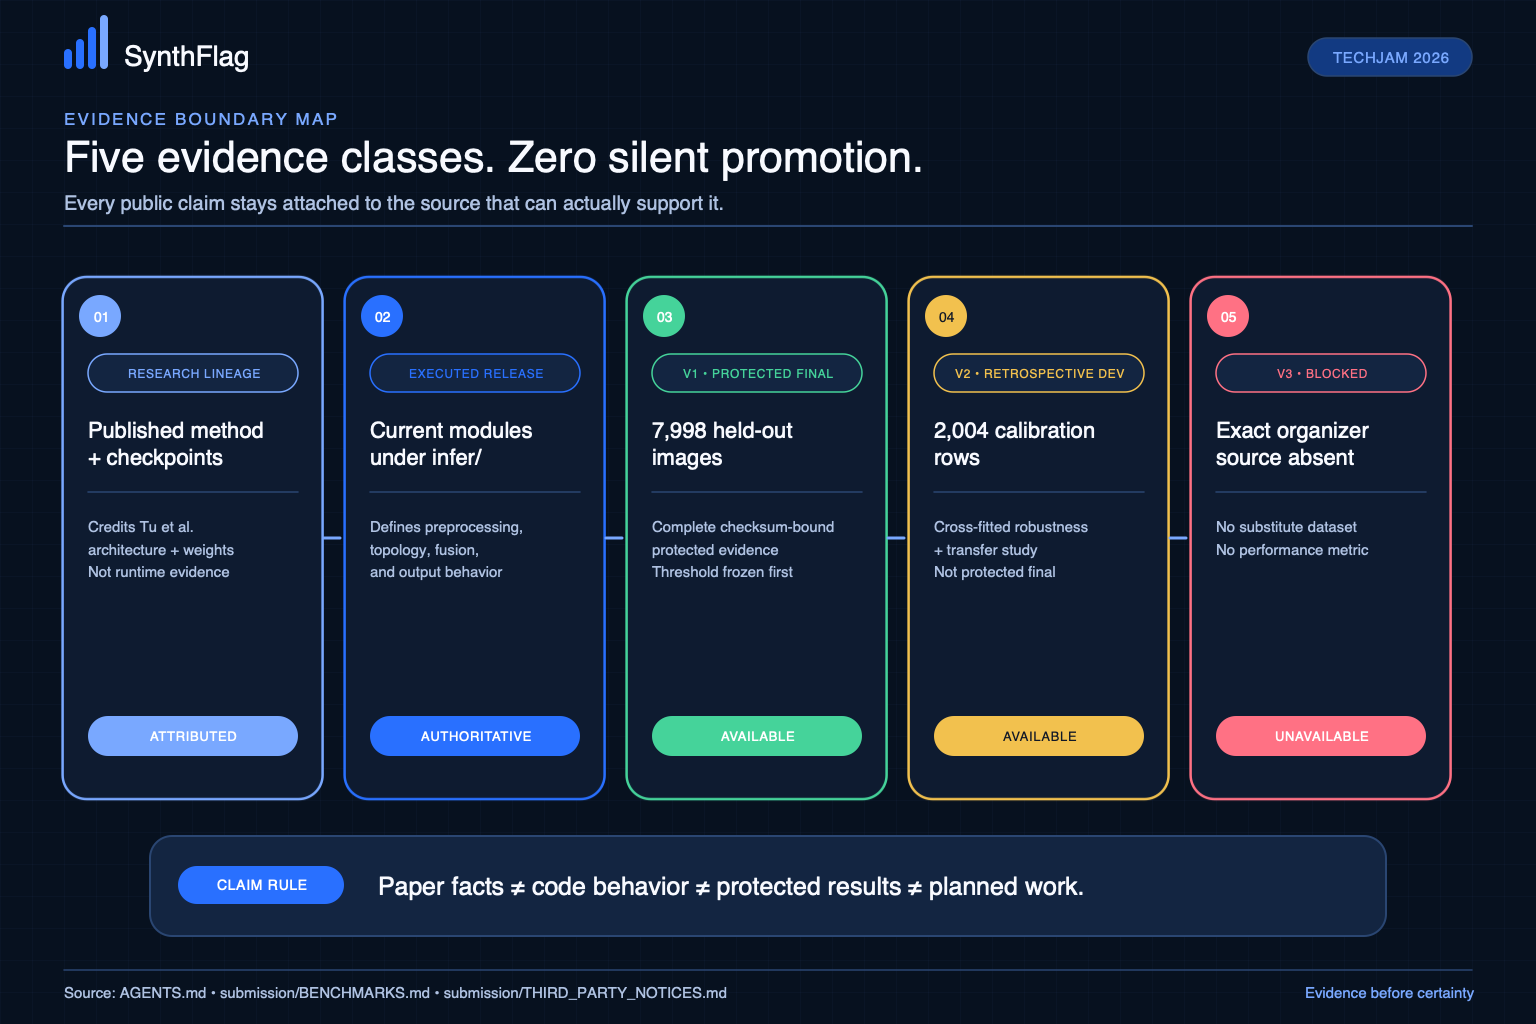
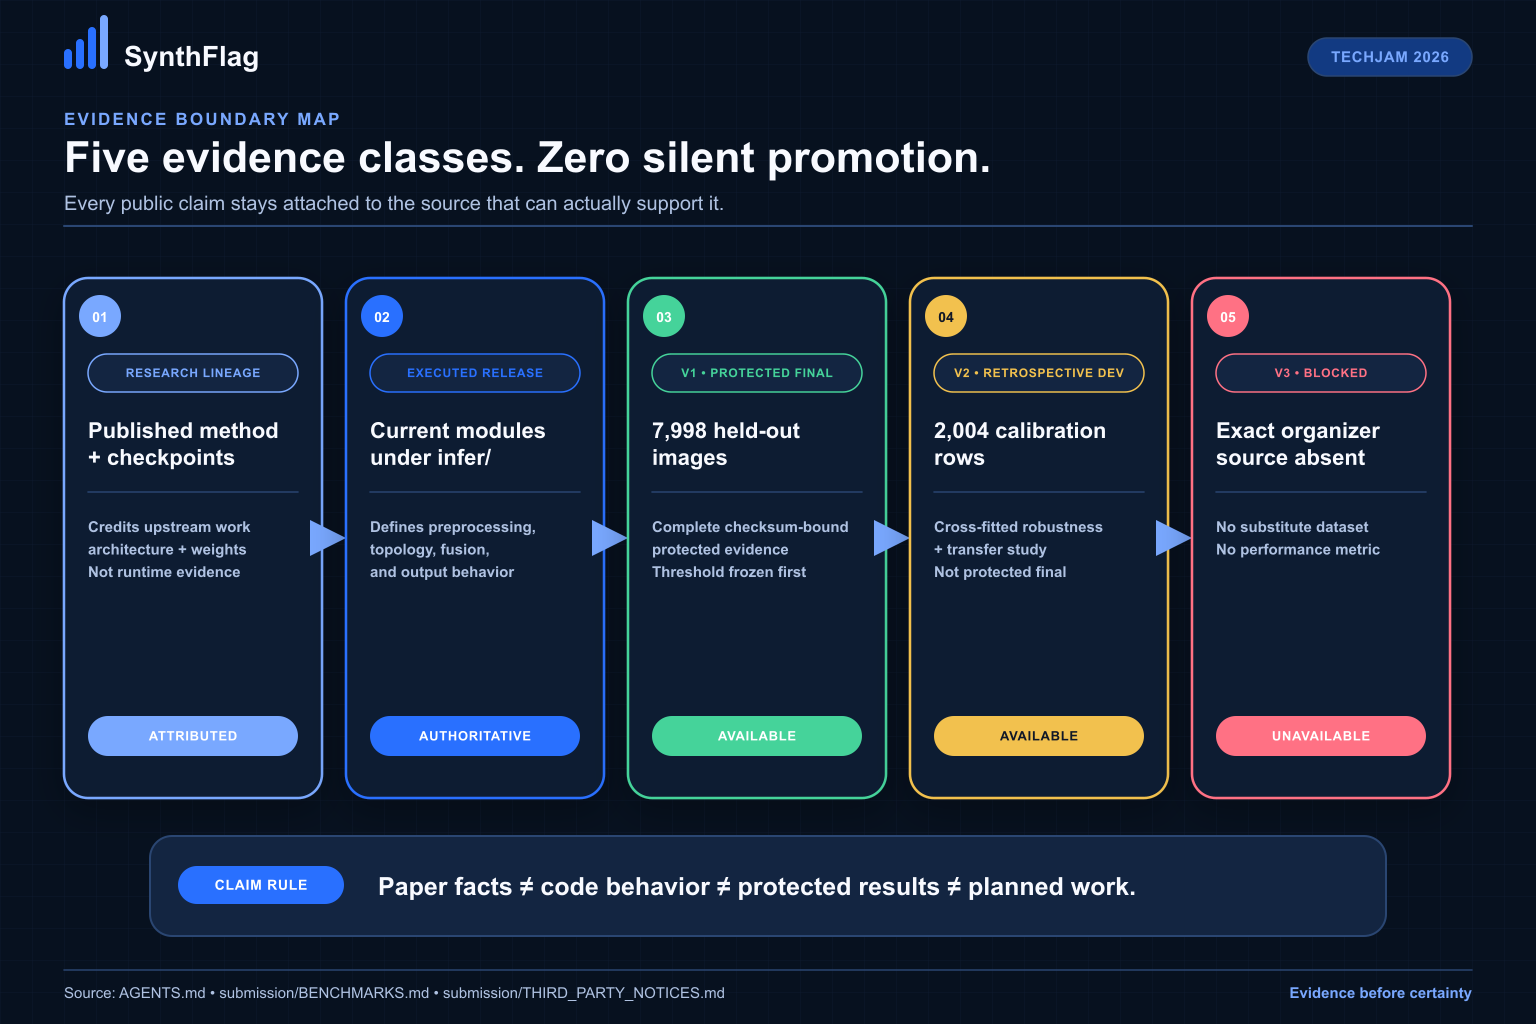
docs: use Expert 4 labels in public copy

diff --git a/landing-page/app/documentation/page.tsx b/landing-page/app/documentation/page.tsx
@@ -175,7 +175,7 @@ export default function Documentation() {
             <SectionHeading kicker="Start here">In one minute</SectionHeading>
             <div className="docs-lead-grid">
               <p className="docs-lead">
-                SynthFlag uses a frozen upstream Tu et al. Expert 4 SigLIP
+                SynthFlag uses a frozen upstream Expert 4 SigLIP
                 encoder and teacher head. Three project-trained lightweight
                 heads correct that teacher margin. Native images at most 64 px
                 use a specialist; larger images use a fixed two-head stack.
@@ -266,7 +266,7 @@ export default function Documentation() {
                 </p>
                 <ul>
                   <li>
-                    <strong>Teacher:</strong> Tu et al. Expert 4, SigLIP So400M
+                    <strong>Teacher:</strong> Expert 4, SigLIP So400M
                     Patch14-384.
                   </li>
                   <li>
@@ -496,7 +496,7 @@ export default function Documentation() {
                 target="_blank"
               >
                 <span>Upstream method</span>
-                <strong>Tu et al. technical report</strong>
+                <strong>Expert 4 technical report</strong>
                 <ArrowUpRight aria-hidden="true" />
               </a>
               <a

diff --git a/landing-page/app/documentation/architecture/atlas.tsx b/landing-page/app/documentation/architecture/atlas.tsx
@@ -691,8 +691,9 @@ const sections: AtlasSection[] = [
         </p>
         <p>
           The DINOv3-7B backbone anatomy comes from Meta&apos;s official model
-          card and reference factory, not from SynthFlag code. Tu et al.
-          evaluated the earlier DINO family during backbone selection, then
+          card and reference factory, not from SynthFlag code. The Expert 4
+          detector report evaluated the earlier DINO family during backbone
+          selection, then
           chose CLIP and SigLIP for its final four-expert system.
         </p>
       </>
@@ -775,7 +776,8 @@ const sections: AtlasSection[] = [
       <>
         <p>
           SynthFlag is the public product name. The underlying detector lineage
-          remains attributed to Tu et al., while the NTIRE report records the
+          remains attributed in the third-party notice, while the NTIRE report
+          records the
           challenge submission separately. Those evidence classes must remain
           distinct.
         </p>

diff --git a/landing-page/app/page.tsx b/landing-page/app/page.tsx
@@ -746,7 +746,7 @@ export default function Home() {
               </h2>
             </div>
             <p className="max-w-2xl text-lg leading-8 text-[#4b5563] lg:justify-self-end">
-              A frozen Tu et al. Expert 4 supplies a 1,152-dimensional feature
+              A frozen Expert 4 supplies a 1,152-dimensional feature
               and teacher margin. Three compact residual heads correct that
               margin through a deterministic native-size route before sigmoid
               produces a signal in the range 0–1.
@@ -1285,7 +1285,7 @@ export default function Home() {
             </span>
           </a>
           <p>
-            Built on the detector architecture and research of Tu et al.
+            Built on the released Expert 4 detector architecture and
             lineage.
           </p>
           <div className="flex items-center gap-5">

diff --git a/landing-page/app/journey/page.tsx b/landing-page/app/journey/page.tsx
@@ -372,7 +372,7 @@ export default function JourneyPage() {
                 </article>
               </div>
               <p className="journey-credit-note">
-                Tu et al. supplied Expert 4 and its detector training. SynthFlag
+                Expert 4 and its detector training are upstream work. SynthFlag
                 does not claim to originate or train that checkpoint. The
                 residual heads and routing are project artifacts with a
                 collaborator rights attestation accepted by the project owner.

diff --git a/landing-page/app/layout.tsx b/landing-page/app/layout.tsx
@@ -17,7 +17,7 @@ const poppins = Poppins({
 export const metadata: Metadata = {
   title: 'SynthFlag — From pixels to evidence',
   description:
-    'A routed residual research detector built on a frozen Tu et al. Expert 4 representation.',
+    'A routed residual research detector built on a frozen Expert 4 representation.',
   metadataBase: new URL('https://synthflag.chaipinzheng353496.chatgpt.site'),
   icons: {
     icon: '/favicon.svg',

diff --git a/infer/cli.py b/infer/cli.py
@@ -29,7 +29,7 @@ def build_parser() -> argparse.ArgumentParser:
         prog="synthflag-infer",
         description=(
             "Score an image directory with SynthFlag's selected TEST1 graph: "
-            "Tu et al. Expert 4 plus three routed residual heads."
+            "Expert 4 plus three routed residual heads."
         ),
     )
     parser.add_argument("--images-dir", required=True, type=Path)

diff --git a/scripts/build_devpost_architecture_assets.py b/scripts/build_devpost_architecture_assets.py
@@ -665,7 +665,7 @@ def build_evidence_boundary_map(theme: Theme) -> str:
             "01",
             "RESEARCH LINEAGE",
             ["Published method", "+ checkpoints"],
-            ["Credits Tu et al.", "architecture + weights", "Not runtime evidence"],
+            ["Credits upstream work", "architecture + weights", "Not runtime evidence"],
             theme.sky,
         ),
         (

diff --git a/infer/architecture.py b/infer/architecture.py
@@ -26,7 +26,7 @@ LARGE_IMAGE_MARGIN_BOUNDARY = -1.557959395647049
 
 
 def siglip_vision_config() -> SiglipVisionConfig:
-    """Describe the frozen Tu et al. Expert 4 SigLIP encoder."""
+    """Describe the frozen Expert 4 SigLIP encoder."""
 
     return SiglipVisionConfig(
         hidden_size=FEATURE_WIDTH,

diff --git a/submission/RELEASE_AUDIT.md b/submission/RELEASE_AUDIT.md
@@ -25,7 +25,7 @@ This is a technical release-readiness verdict, not a legal opinion.
 | Source attribution and hygiene | `THIRD_PARTY_NOTICES.md` records upstream attribution; the embedded digest inventory and source check reject prohibited upstream files except the canonical license. | **Pass** |
 | Current implementation boundary | `training_eval/` contains the collaborator-authoritative residual-head model, training, deterministic augmentation, evaluation, configs, tests, and complete TEST1 record. `infer/` imports that head implementation and adapts it to the product encoder/service/CLI contract. | **Pass** |
 | Dependency attribution | Pinned runtime dependencies are listed with declared licenses and primary license URLs in `THIRD_PARTY_NOTICES.md`. | **Pass** |
-| Base-model attribution | SigLIP identifiers, model card, license/limitations, and Tu et al. Expert 4 lineage are documented. | **Pass** |
+| Base-model attribution | SigLIP identifiers, model card, license/limitations, and Expert 4 lineage are documented. | **Pass** |
 | Checkpoint and head permission | Expert 4 redistribution is unproven. The final three-head bundle remains a team artifact under the collaborator attestation accepted by the project owner. All checkpoint bytes are excluded from Git and distributed from the hash-pinned team Google Drive release. | **Pass by binary exclusion; head attestation accepted** |
 | Dataset attribution | CIFAKE, SID-Set, WildFake, COCO, and organizer DALL-E roles and rights evidence are documented. | **Pass** |
 | Dataset redistribution | No dataset pixels, captions, masks, prompts, or private row-level manifests are tracked. Ambiguous sources are non-redistributable by policy. | **Pass by exclusion** |
@@ -35,7 +35,7 @@ This is a technical release-readiness verdict, not a legal opinion.
 | Day 3 interview evidence | The team supplied a call image and automated transcript. The public copy ends with the researcher interview, excludes later internal chatter, and is labeled as research input rather than performance evidence or endorsement. Publication/likeness permission for every depicted or named participant was not independently verified. | **Conditional: maintainers must confirm consent** |
 | Public artifact integrity | All entries in `ARTIFACTS.sha256` and `training_eval/ARTIFACTS.sha256` were verified. Drive file IDs, bundle size and hash, and all four checkpoint identities are recorded without shipping checkpoint bytes in Git. | **Pass** |
 | Public visual provenance | The project wordmark, architecture diagram, and Devpost thumbnail remain. The thumbnail derives only from project-created SynthFlag brand assets; the unused challenge-site screenshot was removed because its redistribution rights were undocumented. | **Pass** |
-| External research reports | The Tu et al. detector report and NTIRE challenge report are cited through their primary publication pages; no copies are included in this repository. | **Pass** |
+| External research reports | The Expert 4 detector report and NTIRE challenge report are cited through their primary publication pages; no copies are included in this repository. | **Pass** |
 
 ## Release contents
 

diff --git a/submission/THIRD_PARTY_NOTICES.md b/submission/THIRD_PARTY_NOTICES.md
@@ -26,16 +26,16 @@ wheel or source distribution.
 | Component | Evidence | Release treatment |
 |---|---|---|
 | Google SigLIP base model | The [`google/siglip-so400m-patch14-384` model card](https://huggingface.co/google/siglip-so400m-patch14-384) declares Apache-2.0 and identifies WebLI training. | Preserve attribution and the Apache-2.0 terms when redistributing covered base-model material. |
-| Tu et al. `Expert_4_siglip.pth` | Architecture and hash are documented locally; the file is obtained from an authorized external source. No explicit fine-tuned-checkpoint redistribution license was located in the audited public materials. | Required by the selected graph, but not included in Git or the submission archive. Do not re-upload or bundle without permission. |
+| Expert 4 checkpoint (`Expert_4_siglip.pth`) | Architecture and hash are documented locally; the file is obtained from an authorized external source. No explicit fine-tuned-checkpoint redistribution license was located in the audited public materials. | Required by the selected graph, but not included in Git or the submission archive. Do not re-upload or bundle without permission. |
 | Three SynthFlag residual heads | Project-trained head artifacts supplied by the collaborator together with implementation, configuration, tests, and evidence. The collaborator attests that the heads and their training inputs are rights-cleared, and the project owner accepts that attestation. | Distributed through the hash-pinned team Google Drive release and excluded from Git. Treat rights as teammate-attested rather than independently audited; this does not clear upstream Expert 4 redistribution or organizer eligibility. |
-| Tu et al. method | [Technical report, arXiv:2603.21939](https://arxiv.org/abs/2603.21939) | Cite the authors; do not relabel the detector architecture or checkpoints as original SynthFlag research. |
+| Expert 4 method | [Technical report, arXiv:2603.21939](https://arxiv.org/abs/2603.21939) | Cite the authors; do not relabel the detector architecture or checkpoints as original SynthFlag research. |
 
 ## Source attribution
 
 Earlier revisions incorporated Apache-2.0 source from the public repository
 maintained by GitHub user `tzlkkk`. The current release retains that attribution
 while excluding prohibited upstream source overlap. The selected runtime remains
-checkpoint-compatible with Tu et al. Expert 4 and adds project-trained routed
+checkpoint-compatible with Expert 4 and adds project-trained routed
 residual heads.
 
 ## Publications

diff --git a/AGENTS.md b/AGENTS.md
@@ -2,8 +2,9 @@
 
 Read this file before proposing or changing repository content. For a fuller
 project brief, read [`docs/AI_CONTEXT.md`](docs/AI_CONTEXT.md). For primary
-research, use [Tu et al., arXiv:2603.21939](https://arxiv.org/abs/2603.21939)
-and [Gushchin et al., arXiv:2604.11487](https://arxiv.org/abs/2604.11487).
+research, use the Expert 4 detector report
+([arXiv:2603.21939](https://arxiv.org/abs/2603.21939)) and
+[Gushchin et al., arXiv:2604.11487](https://arxiv.org/abs/2604.11487).
 
 ## Context freshness contract
 
@@ -32,7 +33,8 @@ and [Gushchin et al., arXiv:2604.11487](https://arxiv.org/abs/2604.11487).
 - **SynthFlag** is the public product, repository, demo, submission, Python
   package, and primary CLI name.
 - The underlying detector lineage and frozen Expert 4 checkpoint are credited
-  to Tu et al. Do not present that encoder, its teacher head, or its training as
+  to their upstream authors in `submission/THIRD_PARTY_NOTICES.md`. Do not
+  present that encoder, its teacher head, or its training as
   original SynthFlag research.
 - The current runtime is repository-maintained and checkpoint-compatible.
   Preserve method, checkpoint, dependency, and source attribution in
@@ -49,7 +51,7 @@ and [Gushchin et al., arXiv:2604.11487](https://arxiv.org/abs/2604.11487).
   `infer/checkpoints.py` for checkpoint integrity, `infer/model.py` for the
   public Python API, and `infer/outputs.py` plus `infer/cli.py` for batch
   artifacts.
-- The selected TEST1 graph has one frozen Tu et al. Expert 4 SigLIP So400M
+- The selected TEST1 graph has one frozen Expert 4 SigLIP So400M
   Patch14-384 teacher plus three project-trained residual heads. Expert 4 emits
   a 1,152-dimensional pooled feature and two teacher logits.
 - Each residual head is `LayerNorm(1152) -> Linear(256) -> GELU -> Dropout ->

diff --git a/README.md b/README.md
@@ -315,7 +315,7 @@ bounded-queue, and origin-allowlisting contract.
 - [Prompting guide for teammates](docs/PROMPTING_GUIDE.md)
 - [Repository instructions for coding agents](AGENTS.md)
 - [Repository-authored augmentation toolkit](docs/AUGMENTATION_TOOLKIT.md)
-- [Tu et al. detector report](https://arxiv.org/abs/2603.21939)
+- [Expert 4 detector report — Tu et al., arXiv:2603.21939](https://arxiv.org/abs/2603.21939)
 - [NTIRE challenge report](https://arxiv.org/abs/2604.11487)
 
 For a fast handoff, give an AI assistant `docs/AI_CONTEXT.md`. Add the primary
@@ -350,13 +350,13 @@ abstention policy for uncertain or unfamiliar domains.
 
 ## Research, citation, and responsible use
 
-SynthFlag builds on the detector research by Tu et al. Expert 4 and its teacher
-head retain upstream attribution; the three residual heads, native-size router,
-evaluation harness, integration, and product are project work.
+SynthFlag builds on the released Expert 4 detector checkpoint. Expert 4 and its
+teacher head retain upstream attribution; the three residual heads, native-size
+router, evaluation harness, integration, and product are project work.
 Dependency, checkpoint, and source licensing details are kept in the
 [third-party notices](submission/THIRD_PARTY_NOTICES.md).
 
-Underlying detector report: [Tu et al., arXiv:2603.21939](https://arxiv.org/abs/2603.21939).
+Underlying detector report: [arXiv:2603.21939](https://arxiv.org/abs/2603.21939).
 
 A SynthFlag score is a signal, not conclusive proof of an image's origin,
 generator identity, or manipulated region. Decisions with real consequences
